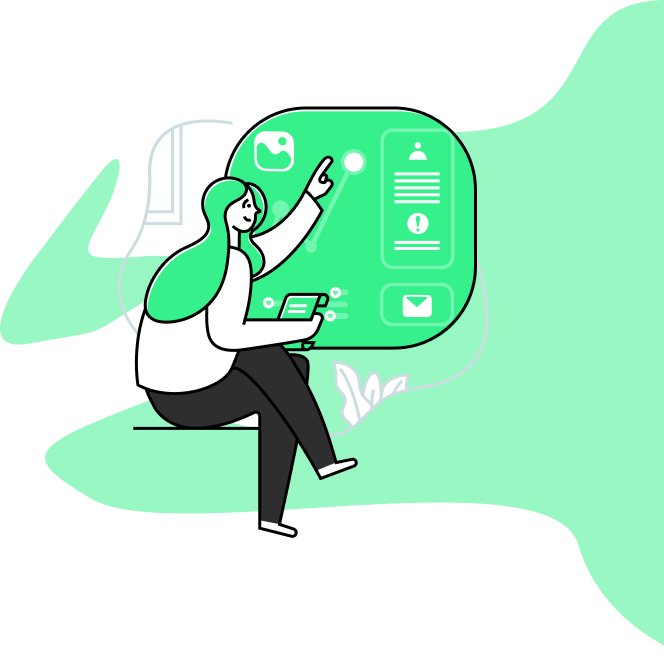
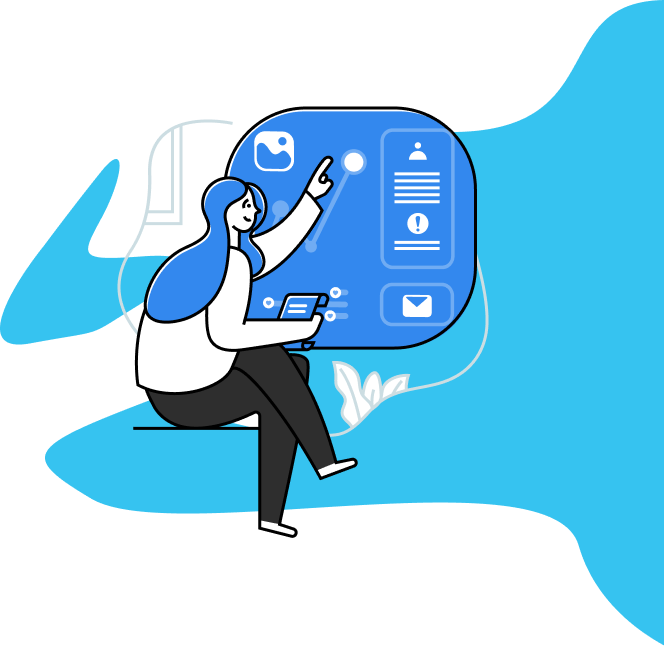
Revision From Client

diff --git a/src/views/Home.vue b/src/views/Home.vue
@@ -399,7 +399,9 @@
             </div>
             <slick :options="videoSlider" ref="videoSlider">
               <div v-for="item, index in videos" :key="index">
-                <h3 class="ff-1 fw-bolder mb-4">{{ item.name }}</h3>
+                <div class="text-start">
+                  <h5 class="ff-1 fw-bolder mb-4">{{ item.name }}</h5>
+                </div>
                 <youtube player-width="480" player-height="240" :video-id="item.link"/>
               </div>
             </slick>
@@ -514,10 +516,10 @@ export default {
         { name: 'Hadap Kavling / Ruko?' },
       ],
       videos: [
-        { name: 'Review Lokasi Kavling', link: getIdFromURL('https://www.youtube.com/watch?v=qWAG6O9VMs4'), time: getTimeFromURL('https://www.youtube.com/watch?v=qWAG6O9VMs4')},
-        { name: 'Arah Menuju Ke Lokasi', link: getIdFromURL('https://www.youtube.com/watch?v=5B8O_oNnZ9o'), time: getTimeFromURL('https://www.youtube.com/watch?v=5B8O_oNnZ9o')},
-        { name: 'Testimoni Buyer', link: getIdFromURL('https://www.youtube.com/watch?v=QLn5t6CQ-TM'), time: getTimeFromURL('https://www.youtube.com/watch?v=QLn5t6CQ-TM')},
-        { name: 'Testimoni Saat AJB Notaris', link: getIdFromURL('https://www.youtube.com/watch?v=GbT3dlk4Hkk'), time: getTimeFromURL('https://www.youtube.com/watch?v=GbT3dlk4Hkk')},
+        { name: 'AJB Notaris Grand Sengon Purwosari arah Pandaan dekat Malang', link: getIdFromURL('https://youtu.be/uopW2zKGQa0'), time: getTimeFromURL('https://youtu.be/uopW2zKGQa0')},
+        { name: 'Ruko dan kavling siap bangun Grand Sengon Purwosari', link: getIdFromURL('https://youtu.be/U_fhVm6I_Aw'), time: getTimeFromURL('https://youtu.be/U_fhVm6I_Aw')},
+        { name: 'Ruko dan Kavling Siap Bangun', link: getIdFromURL('https://youtu.be/2gCoGz8BfmA'), time: getTimeFromURL('https://youtu.be/2gCoGz8BfmA')},
+        { name: 'Ruko dan Kavling Terlaris', link: getIdFromURL('https://youtu.be/N_4QBG4tNcs'), time: getTimeFromURL('https://youtu.be/N_4QBG4tNcs')},
       ],
       galleries: [
         { name: 'Foto Kavling 1' },

diff --git a/src/assets/style/main.sass b/src/assets/style/main.sass
@@ -79,10 +79,10 @@ body, html
     border-radius: 16px
     transition: all .3s ease-in-out
     color: black !important
-    box-shadow: 0px 16px 23px rgba(54, 240, 140, 0.3)
+    box-shadow: 0px 16px 23px rgba(54, 197, 240, 0.3)
     &:hover
         background: $color-primary-hovered
-        box-shadow: 0px 16px 16px rgba(54, 240, 140, 0.4)
+        box-shadow: 0px 16px 16px rgba(54, 197, 240, 0.3)
 .card-simple-1 
     width: 100%
     position: relative

diff --git a/src/assets/style/__var.sass b/src/assets/style/__var.sass
@@ -1,3 +1,3 @@
-$color-primary: #36F08C
-$color-primary-hovered: #21c56e
-$color-primary-light: rgba(54, 240, 140, 0.17)
+$color-primary: #36a6f0
+$color-primary-hovered: #2176c5
+$color-primary-light: rgba(54, 240, 221, 0.17)
